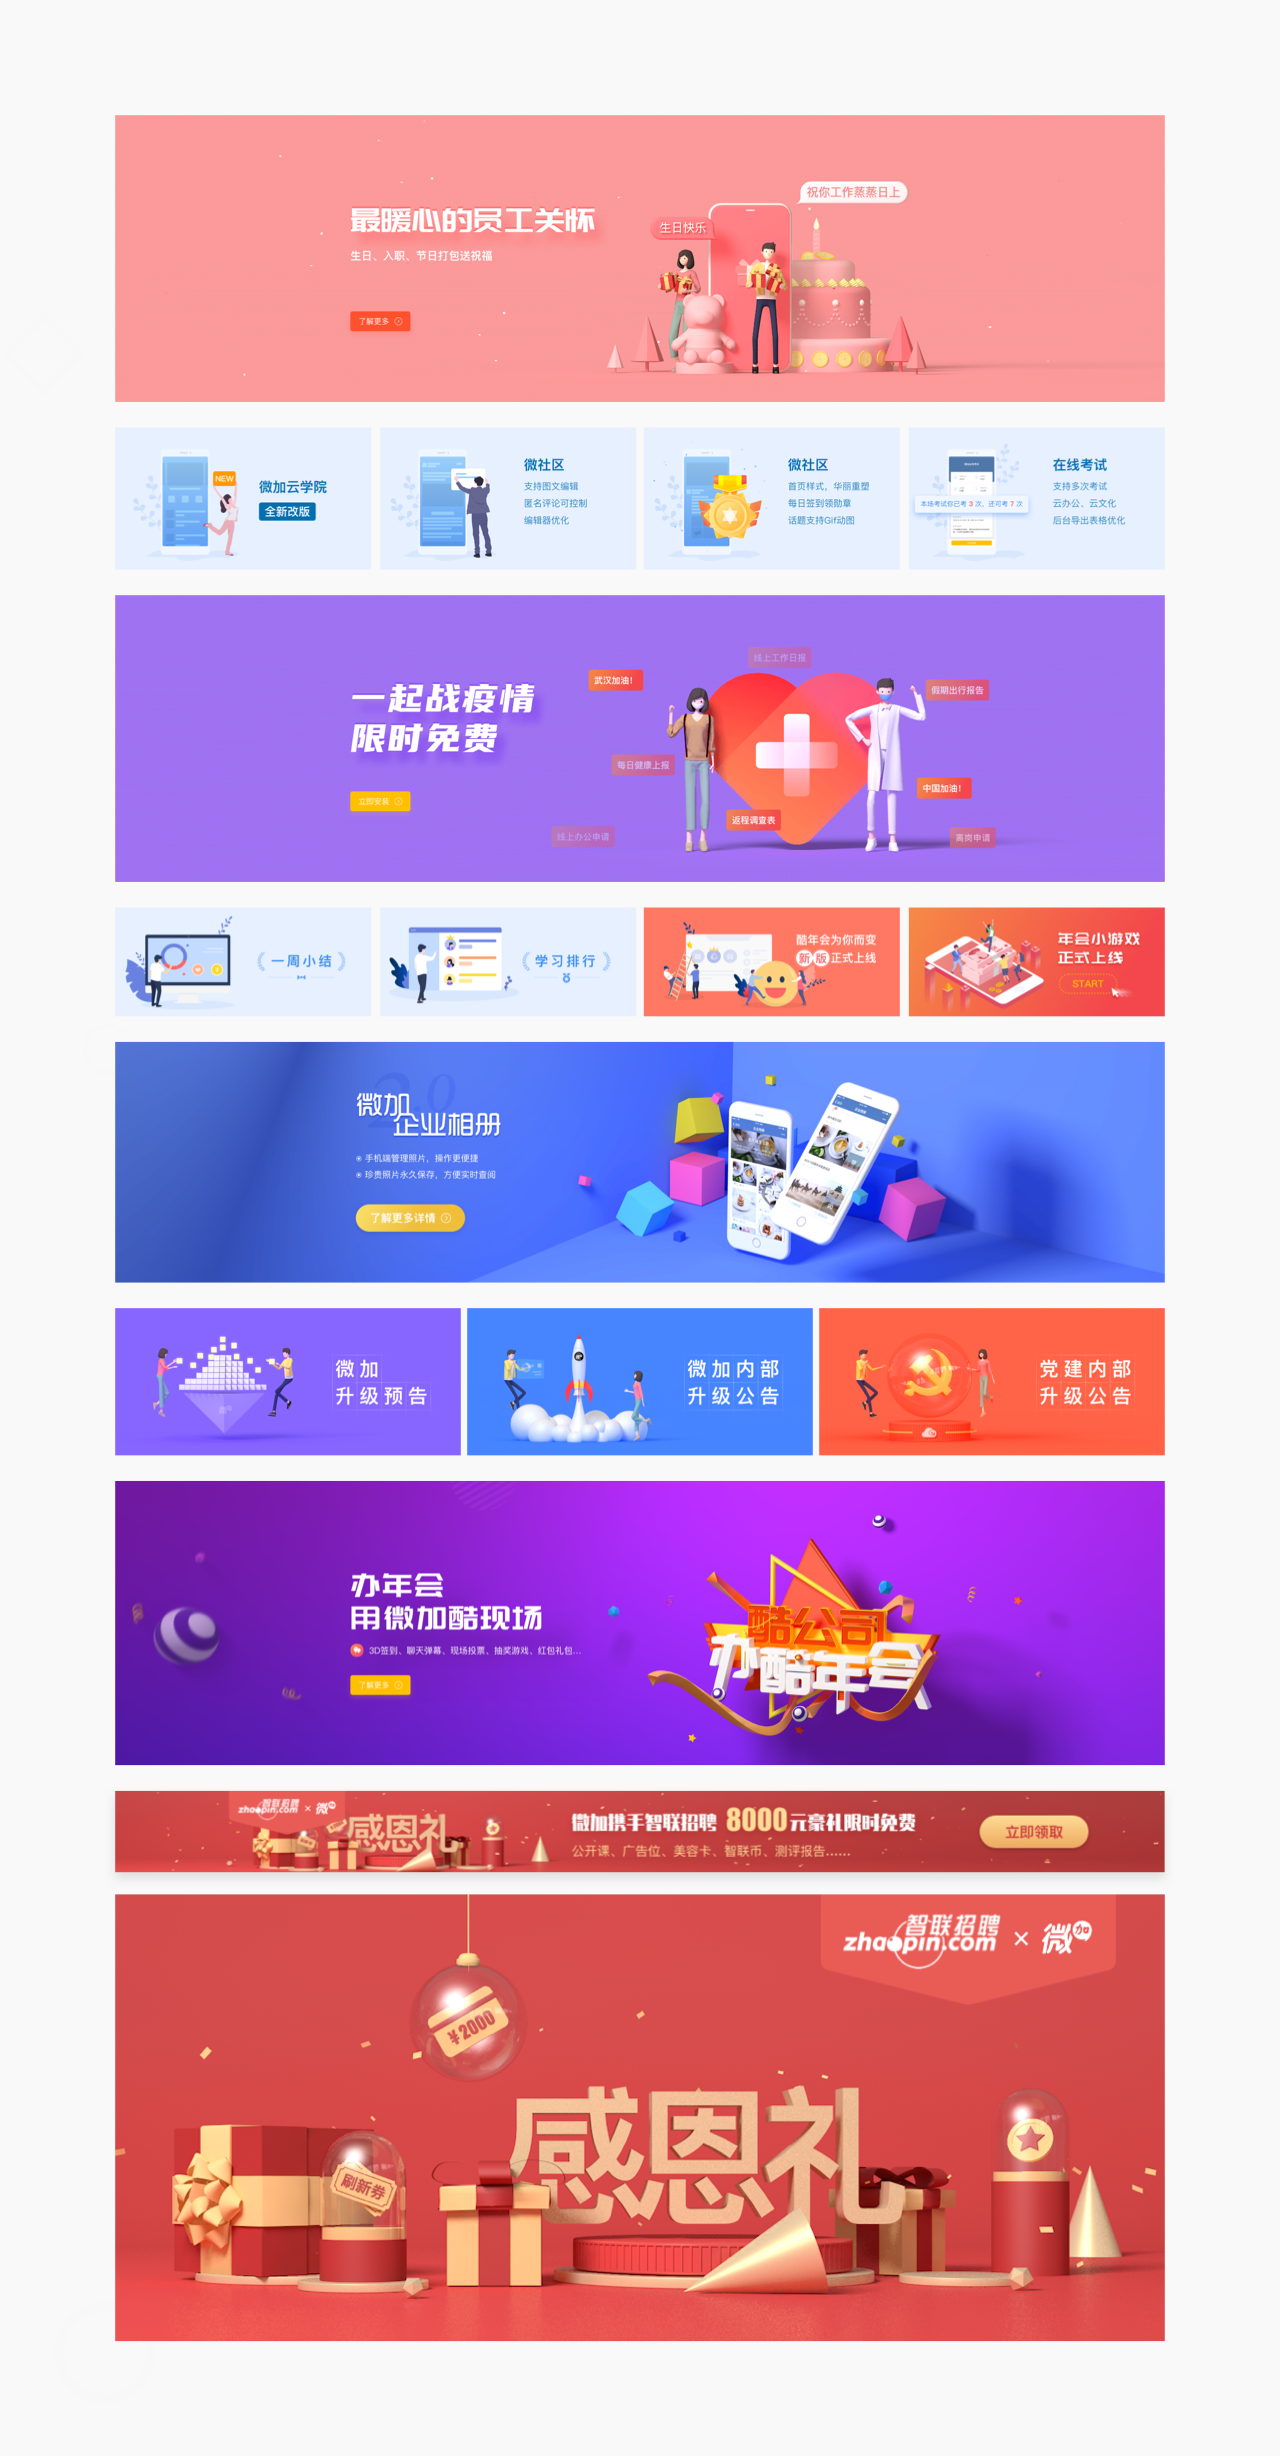
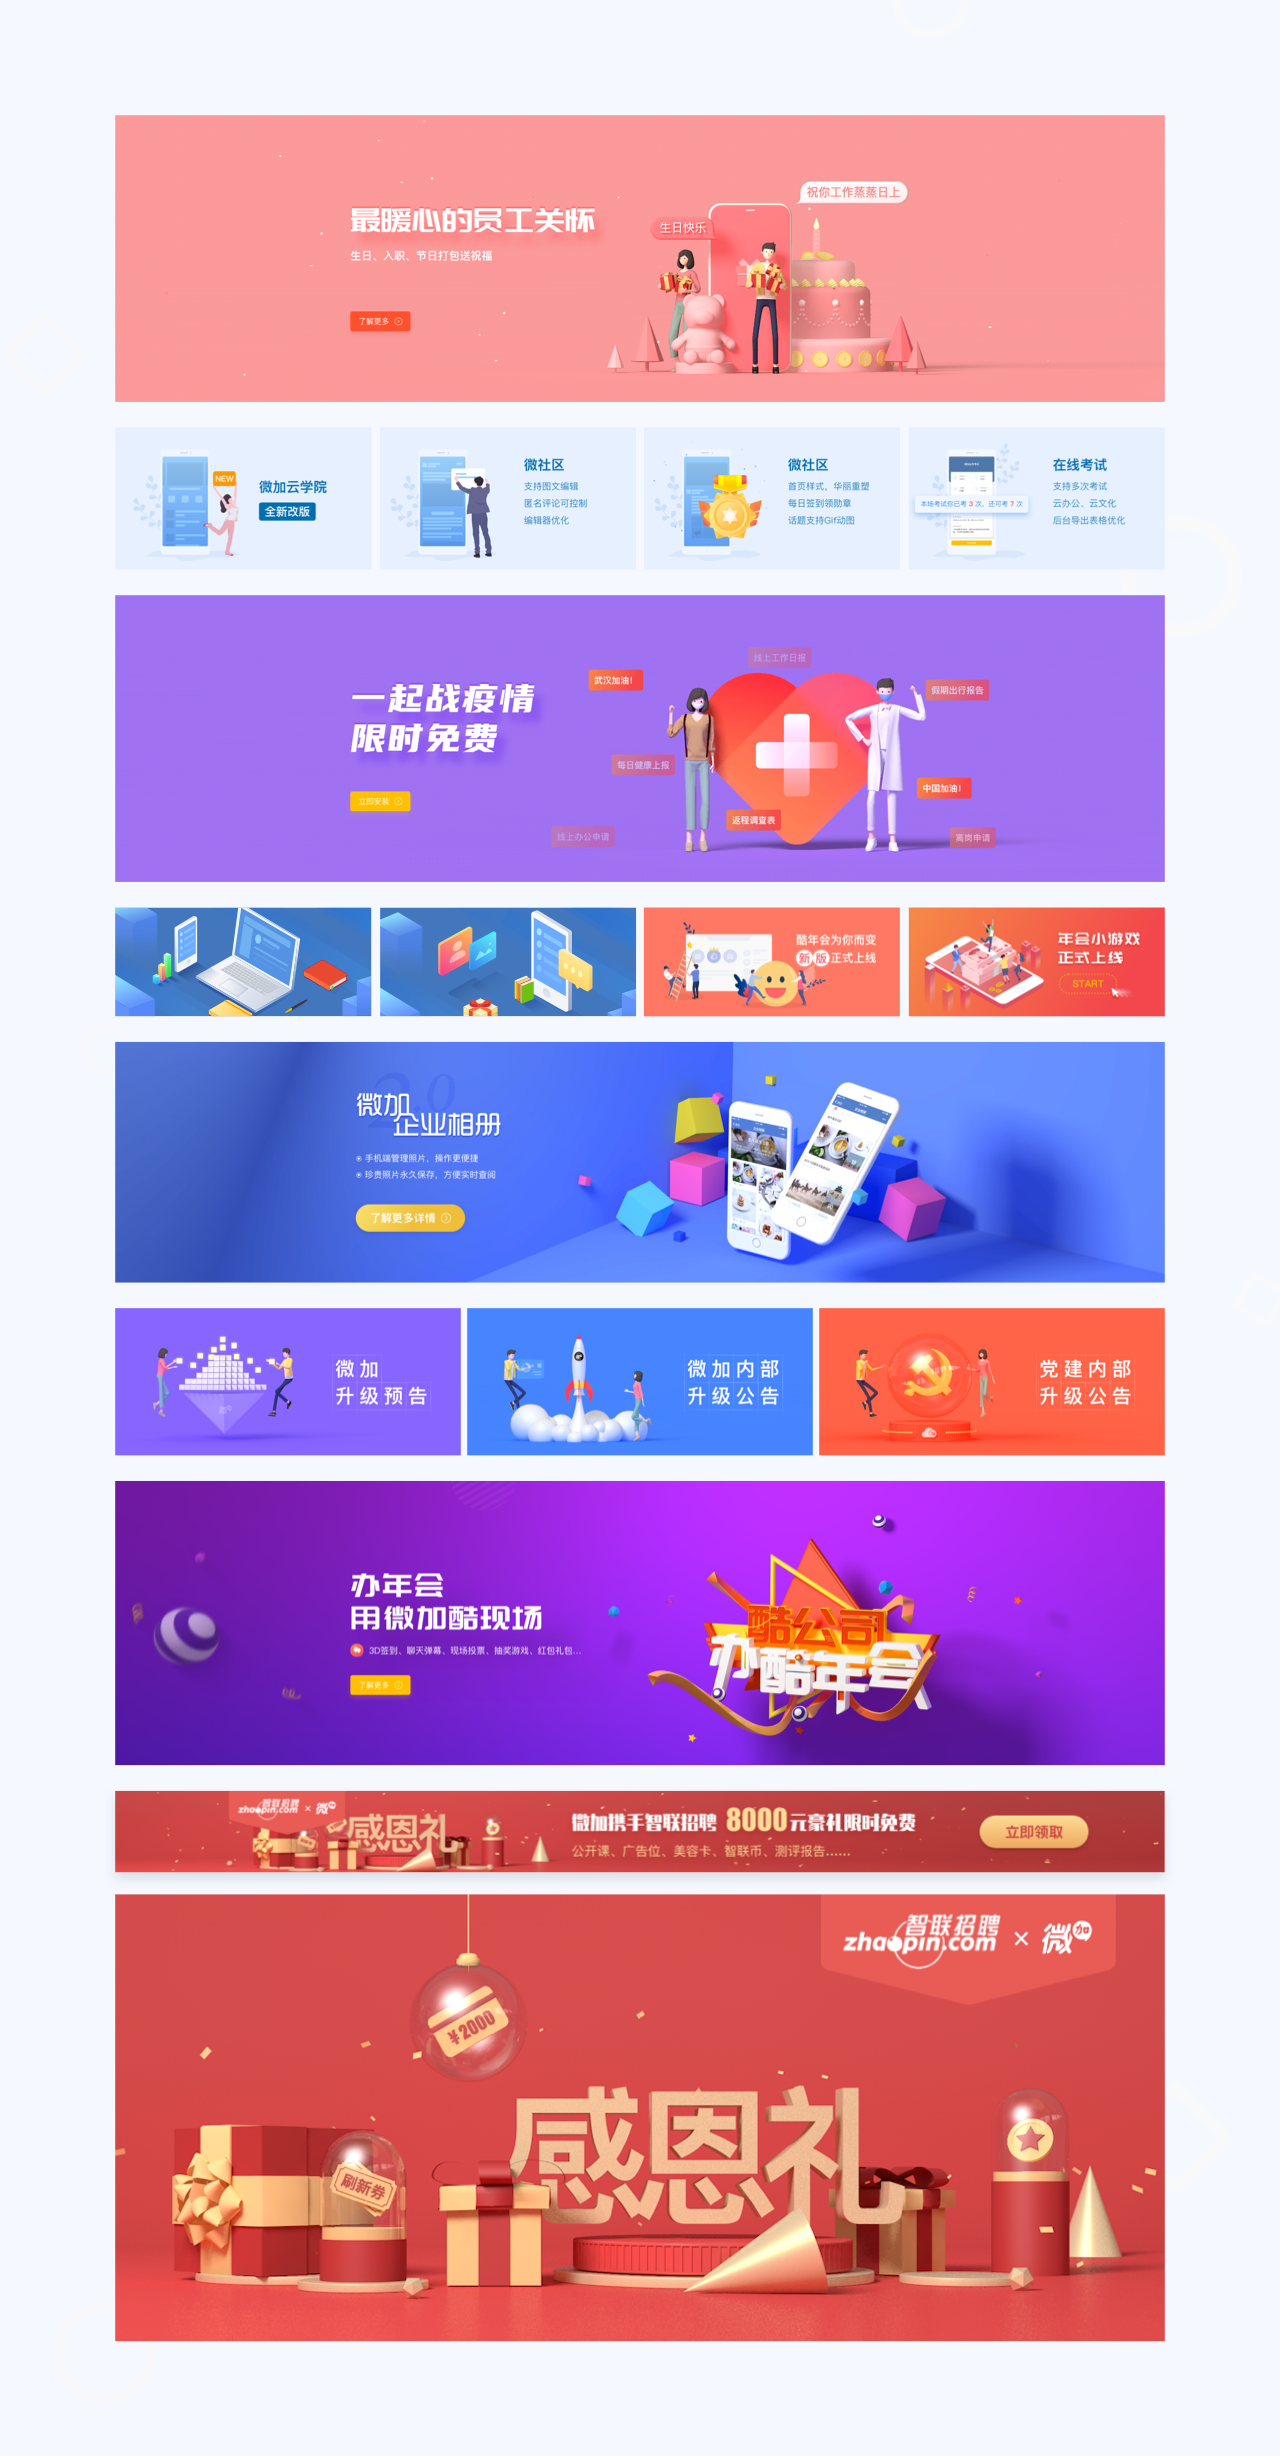
update from gridea: 2020-04-12 22:15:44

Changed region(s): [[0.0625, 0.3713, 0.5, 0.4332]]

diff --git a/index.html b/index.html
@@ -40,25 +40,25 @@
 				<a id="downBtn" class="more" href="javascript:">↓ 向下滑动查看更多</a>
 			</div>
 		</section>
-		<section class="page1" style="background-image:url('/images/banner/vj_character.jpg');">
+		<section class="page1" style="background-image:url('/images/banner/vj_character.png');">
 			<div class="text tar">
 				<h2>微加卡通角色设计</h2>
 				<p>为提高微加品牌辨识度设计的 IP 形象</p>
 				<a href="/post/3d_vj/" class="more">+ 查看详情</a>
 			</div>
 		</section>
-		<section class="page2" style="background-image:url('/images/banner/vj_character.jpg');">
+		<section class="page2" style="background-image:url('/images/banner/vj_mobile.png');">
 			<div class="text">
-				<h2>微加官网改版</h2>
-				<p>微加官网3.0风格设计，更轻、更快、更优雅</p>
-				<a href="/post/web_vj/" class="more">+ 查看详情</a>
+				<h2>微加移动端设计</h2>
+				<p>云学院 / 云文化 / 云办公 / 云表单等应用</p>
+				<a href="/post/ui_vj/" class="more">+ 查看详情</a>
 			</div>
 		</section>
-		<section class="page3" style="background-image:url('/images/banner/vj_character.jpg');">
+		<section class="page3" style="background-image:url('/images/banner/vj_icon.png');">
 			<div class="text tar">
-				<h2>微加卡通形象设计</h2>
-				<p>为微加项目设计的卡通形象</p>
-				<a href="" class="more">+ 查看详情</a>
+				<h2>勋章ICON设计</h2>
+				<p>为社区成就系统打造的一套等级勋章图标</p>
+				<a href="/post/ui_icon/" class="more">+ 查看详情</a>
 			</div>
 		</section>
 	</div>

diff --git a/post/3d_scene/index.html b/post/3d_scene/index.html
@@ -34,20 +34,20 @@
 	</header>
 	<div class="main">
 		<div class="post">
-			<img src="/post-images/thumb_ui_icon.jpg" class="post-img fadeInDown">
+			<img src="/post-images/thumb_3d_scene.jpg" class="post-img fadeInDown">
 			<div class="con fadeInUp">
-				<h2 class="post-title">勋章ICON设计</h2>
+				<h2 class="post-title">3D场景设计</h2>
 				<div class="post-tag">
 					
-					UI Design
+					3D Design
 					
 				</div>
 				<div class="post-con">
-					<h3 id="描述">描述</h3>
-<p>为社区成就系统打造的一套等级勋章图标。</p>
+					<h3 id="项目描述">项目描述</h3>
+<p>配合运营需求，使用微加 IP 形象制作的一些场景展示。</p>
 <h3 id="使用工具">使用工具</h3>
-<p><code>Sketch</code></p>
-<img src="/post-images/ui_icon.png">
+<p><code>C4D</code></p>
+<img src="/post-images/3d_scene.png">
 				</div>
 			</div>
 		</div>

diff --git a/post/3d_vj/index.html b/post/3d_vj/index.html
@@ -50,8 +50,7 @@
 <p>目前两个角色在 Banner 及移动端一些页面上已经开始使用，希望通过不断地增加曝光率使用户今后在看到这两个角色的时候，就立刻能联想到微加。</p>
 <h3 id="使用工具">使用工具</h3>
 <p><code>C4D</code></p>
-<img src="/post-images/3d_vj1.png">
-<img src="/post-images/3d_vj2.png">
+<img src="/post-images/3d_vj.png">
 				</div>
 			</div>
 		</div>

diff --git a/archives/index.html b/archives/index.html
@@ -101,6 +101,11 @@
 						<h3><a href="https://willlye.github.io/post/3d_vj/">微加卡通角色设计</a></h3>
 					</li>
 							
+					<li>
+						<a class="thumb" href="/post/3d_scene/"><img src="/post-images/thumb_3d_scene.jpg"></a>
+						<h3><a href="https://willlye.github.io/post/3d_scene/">3D场景设计</a></h3>
+					</li>
+							
 				</ul>
 			</section>
 			<section id="vi">
